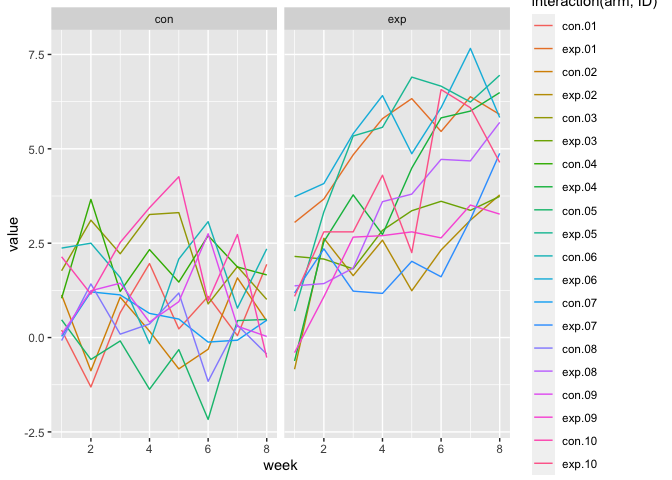
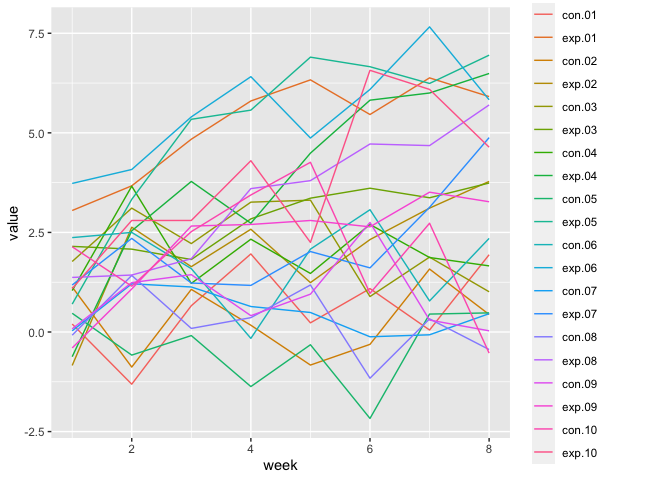
finished prob 3

diff --git a/p8105_hw5_yd2739.md b/p8105_hw5_yd2739.md
@@ -3,8 +3,6 @@ p8105_hw5_yd2739
 Yuxuan Du
 2023-11-05
 
-## Problem 1
-
 ``` r
 library(tidyverse)
 ```
@@ -23,6 +21,8 @@ library(tidyverse)
 ``` r
 library(ggplot2)
 ```
+
+## Problem 1
 
 ``` r
 homicides_data = read_csv('https://raw.githubusercontent.com/washingtonpost/data-homicides/master/homicide-data.csv')
@@ -91,19 +91,16 @@ ggplot(city_estimates, aes(x = reorder(city_state, estimate), y = estimate)) +
 
 ## Problem 2
 
+First, we use list.files to create list of file names, and use map to
+iterate through the list and read all data into DF. Than we unnest the
+DF and change format of ID and arm. After that, the DF was pivoted for
+further analysis.
+
 ``` r
 file_names = list.files(path = "data", pattern = "*.csv", full.names = TRUE)
 
 file_info = data_frame(file_name = file_names)
-```
 
-    ## Warning: `data_frame()` was deprecated in tibble 1.1.0.
-    ## ℹ Please use `tibble()` instead.
-    ## This warning is displayed once every 8 hours.
-    ## Call `lifecycle::last_lifecycle_warnings()` to see where this warning was
-    ## generated.
-
-``` r
 file_info = file_info |>
   mutate(data = map(file_name, read_csv))|>
   unnest()|>
@@ -111,166 +108,22 @@ file_info = file_info |>
   mutate(arm = substring(file_name, 6, 8))|>
   subset(select = -c(file_name))|>
   relocate(arm, ID)
-```
 
-    ## Rows: 1 Columns: 8
-    ## ── Column specification ────────────────────────────────────────────────────────
-    ## Delimiter: ","
-    ## dbl (8): week_1, week_2, week_3, week_4, week_5, week_6, week_7, week_8
-    ## 
-    ## ℹ Use `spec()` to retrieve the full column specification for this data.
-    ## ℹ Specify the column types or set `show_col_types = FALSE` to quiet this message.
-    ## Rows: 1 Columns: 8
-    ## ── Column specification ────────────────────────────────────────────────────────
-    ## Delimiter: ","
-    ## dbl (8): week_1, week_2, week_3, week_4, week_5, week_6, week_7, week_8
-    ## 
-    ## ℹ Use `spec()` to retrieve the full column specification for this data.
-    ## ℹ Specify the column types or set `show_col_types = FALSE` to quiet this message.
-    ## Rows: 1 Columns: 8
-    ## ── Column specification ────────────────────────────────────────────────────────
-    ## Delimiter: ","
-    ## dbl (8): week_1, week_2, week_3, week_4, week_5, week_6, week_7, week_8
-    ## 
-    ## ℹ Use `spec()` to retrieve the full column specification for this data.
-    ## ℹ Specify the column types or set `show_col_types = FALSE` to quiet this message.
-    ## Rows: 1 Columns: 8
-    ## ── Column specification ────────────────────────────────────────────────────────
-    ## Delimiter: ","
-    ## dbl (8): week_1, week_2, week_3, week_4, week_5, week_6, week_7, week_8
-    ## 
-    ## ℹ Use `spec()` to retrieve the full column specification for this data.
-    ## ℹ Specify the column types or set `show_col_types = FALSE` to quiet this message.
-    ## Rows: 1 Columns: 8
-    ## ── Column specification ────────────────────────────────────────────────────────
-    ## Delimiter: ","
-    ## dbl (8): week_1, week_2, week_3, week_4, week_5, week_6, week_7, week_8
-    ## 
-    ## ℹ Use `spec()` to retrieve the full column specification for this data.
-    ## ℹ Specify the column types or set `show_col_types = FALSE` to quiet this message.
-    ## Rows: 1 Columns: 8
-    ## ── Column specification ────────────────────────────────────────────────────────
-    ## Delimiter: ","
-    ## dbl (8): week_1, week_2, week_3, week_4, week_5, week_6, week_7, week_8
-    ## 
-    ## ℹ Use `spec()` to retrieve the full column specification for this data.
-    ## ℹ Specify the column types or set `show_col_types = FALSE` to quiet this message.
-    ## Rows: 1 Columns: 8
-    ## ── Column specification ────────────────────────────────────────────────────────
-    ## Delimiter: ","
-    ## dbl (8): week_1, week_2, week_3, week_4, week_5, week_6, week_7, week_8
-    ## 
-    ## ℹ Use `spec()` to retrieve the full column specification for this data.
-    ## ℹ Specify the column types or set `show_col_types = FALSE` to quiet this message.
-    ## Rows: 1 Columns: 8
-    ## ── Column specification ────────────────────────────────────────────────────────
-    ## Delimiter: ","
-    ## dbl (8): week_1, week_2, week_3, week_4, week_5, week_6, week_7, week_8
-    ## 
-    ## ℹ Use `spec()` to retrieve the full column specification for this data.
-    ## ℹ Specify the column types or set `show_col_types = FALSE` to quiet this message.
-    ## Rows: 1 Columns: 8
-    ## ── Column specification ────────────────────────────────────────────────────────
-    ## Delimiter: ","
-    ## dbl (8): week_1, week_2, week_3, week_4, week_5, week_6, week_7, week_8
-    ## 
-    ## ℹ Use `spec()` to retrieve the full column specification for this data.
-    ## ℹ Specify the column types or set `show_col_types = FALSE` to quiet this message.
-    ## Rows: 1 Columns: 8
-    ## ── Column specification ────────────────────────────────────────────────────────
-    ## Delimiter: ","
-    ## dbl (8): week_1, week_2, week_3, week_4, week_5, week_6, week_7, week_8
-    ## 
-    ## ℹ Use `spec()` to retrieve the full column specification for this data.
-    ## ℹ Specify the column types or set `show_col_types = FALSE` to quiet this message.
-    ## Rows: 1 Columns: 8
-    ## ── Column specification ────────────────────────────────────────────────────────
-    ## Delimiter: ","
-    ## dbl (8): week_1, week_2, week_3, week_4, week_5, week_6, week_7, week_8
-    ## 
-    ## ℹ Use `spec()` to retrieve the full column specification for this data.
-    ## ℹ Specify the column types or set `show_col_types = FALSE` to quiet this message.
-    ## Rows: 1 Columns: 8
-    ## ── Column specification ────────────────────────────────────────────────────────
-    ## Delimiter: ","
-    ## dbl (8): week_1, week_2, week_3, week_4, week_5, week_6, week_7, week_8
-    ## 
-    ## ℹ Use `spec()` to retrieve the full column specification for this data.
-    ## ℹ Specify the column types or set `show_col_types = FALSE` to quiet this message.
-    ## Rows: 1 Columns: 8
-    ## ── Column specification ────────────────────────────────────────────────────────
-    ## Delimiter: ","
-    ## dbl (8): week_1, week_2, week_3, week_4, week_5, week_6, week_7, week_8
-    ## 
-    ## ℹ Use `spec()` to retrieve the full column specification for this data.
-    ## ℹ Specify the column types or set `show_col_types = FALSE` to quiet this message.
-    ## Rows: 1 Columns: 8
-    ## ── Column specification ────────────────────────────────────────────────────────
-    ## Delimiter: ","
-    ## dbl (8): week_1, week_2, week_3, week_4, week_5, week_6, week_7, week_8
-    ## 
-    ## ℹ Use `spec()` to retrieve the full column specification for this data.
-    ## ℹ Specify the column types or set `show_col_types = FALSE` to quiet this message.
-    ## Rows: 1 Columns: 8
-    ## ── Column specification ────────────────────────────────────────────────────────
-    ## Delimiter: ","
-    ## dbl (8): week_1, week_2, week_3, week_4, week_5, week_6, week_7, week_8
-    ## 
-    ## ℹ Use `spec()` to retrieve the full column specification for this data.
-    ## ℹ Specify the column types or set `show_col_types = FALSE` to quiet this message.
-    ## Rows: 1 Columns: 8
-    ## ── Column specification ────────────────────────────────────────────────────────
-    ## Delimiter: ","
-    ## dbl (8): week_1, week_2, week_3, week_4, week_5, week_6, week_7, week_8
-    ## 
-    ## ℹ Use `spec()` to retrieve the full column specification for this data.
-    ## ℹ Specify the column types or set `show_col_types = FALSE` to quiet this message.
-    ## Rows: 1 Columns: 8
-    ## ── Column specification ────────────────────────────────────────────────────────
-    ## Delimiter: ","
-    ## dbl (8): week_1, week_2, week_3, week_4, week_5, week_6, week_7, week_8
-    ## 
-    ## ℹ Use `spec()` to retrieve the full column specification for this data.
-    ## ℹ Specify the column types or set `show_col_types = FALSE` to quiet this message.
-    ## Rows: 1 Columns: 8
-    ## ── Column specification ────────────────────────────────────────────────────────
-    ## Delimiter: ","
-    ## dbl (8): week_1, week_2, week_3, week_4, week_5, week_6, week_7, week_8
-    ## 
-    ## ℹ Use `spec()` to retrieve the full column specification for this data.
-    ## ℹ Specify the column types or set `show_col_types = FALSE` to quiet this message.
-    ## Rows: 1 Columns: 8
-    ## ── Column specification ────────────────────────────────────────────────────────
-    ## Delimiter: ","
-    ## dbl (8): week_1, week_2, week_3, week_4, week_5, week_6, week_7, week_8
-    ## 
-    ## ℹ Use `spec()` to retrieve the full column specification for this data.
-    ## ℹ Specify the column types or set `show_col_types = FALSE` to quiet this message.
-    ## Rows: 1 Columns: 8
-    ## ── Column specification ────────────────────────────────────────────────────────
-    ## Delimiter: ","
-    ## dbl (8): week_1, week_2, week_3, week_4, week_5, week_6, week_7, week_8
-    ## 
-    ## ℹ Use `spec()` to retrieve the full column specification for this data.
-    ## ℹ Specify the column types or set `show_col_types = FALSE` to quiet this message.
-
-    ## Warning: `cols` is now required when using `unnest()`.
-    ## ℹ Please use `cols = c(data)`.
-
-``` r
 file_info_pivoted = file_info|>
   pivot_longer(cols = starts_with("week"), names_to = "week", values_to = "value")|>
   mutate(week = as.numeric(substring(week, 6,6)))
+```
 
+``` r
 file_info_pivoted|>
   group_by(arm, ID)|>
   ggplot(aes(x = week, y = value, color = interaction(arm, ID)))+
   geom_line()
 ```
 
-![](p8105_hw5_yd2739_files/figure-gfm/unnamed-chunk-5-1.png)<!-- --> It
-looks hard to interpret. So I decide to use facet grid to separate
-different arm.
+![](p8105_hw5_yd2739_files/figure-gfm/unnamed-chunk-6-1.png)<!-- -->
+This plot looks hard to interpret. So I decide to use facet grid to
+separate different arm.
 
 ``` r
 file_info_pivoted|>
@@ -280,9 +133,77 @@ file_info_pivoted|>
   facet_grid(~arm)
 ```
 
-![](p8105_hw5_yd2739_files/figure-gfm/unnamed-chunk-6-1.png)<!-- -->
+![](p8105_hw5_yd2739_files/figure-gfm/unnamed-chunk-7-1.png)<!-- -->
 
 In this plot, we could see that the expirimental group have overall
 increasing trend during the experiment period.
 
 ## Problem 3
+
+``` r
+set.seed(1234)
+n = 30
+sigma = 5
+alpha = 0.05
+
+dataset = data.frame(x = 1:10)
+
+simulation = function(mu) {
+  results = replicate(5000, {
+    sample = rnorm(n, mean = mu, sd = sigma)
+    test_result = t.test(sample, mu = 0)
+    tidy_test_result = broom::tidy(test_result)
+    c(estimate = pull(tidy_test_result, estimate), p.value = pull(tidy_test_result, p.value), mu)
+  })
+  t(results)
+}
+
+five_sim_df = simulation(5)
+
+sim_output = vector("list", length = 6)
+
+for (i in 1:6){
+  sim_output[[i]] = simulation(i)
+}
+```
+
+``` r
+sim_output_df = data.frame(do.call(rbind, sim_output))|>
+  rename(mu = V3)|>
+  mutate(reject = ifelse(p.value < 0.025 | p.value > 0.975, 1, 0))
+ 
+sim_output_df|>
+  group_by(mu)|>
+  summarise(mean_rej = mean(reject))|>
+  ggplot(aes(x = factor(mu), y = mean_rej))+
+  geom_bar(stat = "identity", fill = "blue")
+```
+
+![](p8105_hw5_yd2739_files/figure-gfm/unnamed-chunk-9-1.png)<!-- --> We
+could see that as the mu increase, the rejection rate increase. So the
+power increase as effect size increase.
+
+``` r
+sim_output_df|>
+  group_by(mu)|>
+  summarise(est_mu = mean(estimate.mean.of.x))|>
+  ggplot(aes(x = mu, y = est_mu))+
+  geom_line()
+```
+
+![](p8105_hw5_yd2739_files/figure-gfm/unnamed-chunk-10-1.png)<!-- -->
+
+``` r
+sim_output_df|>
+  subset(reject == 1)|>
+  group_by(mu)|>
+  summarise(est_mu = mean(estimate.mean.of.x))|>
+  ggplot(aes(x = mu, y = est_mu))+
+  geom_line()
+```
+
+![](p8105_hw5_yd2739_files/figure-gfm/unnamed-chunk-11-1.png)<!-- -->
+No, the two lines does not approximately equal. This is because the
+group rejected H0 does not contains 0 in their 95% CI, while the group
+failed to reject H0 will contains 0 in their 95% CI, this makes the the
+group reject H0 have hight average mean.
